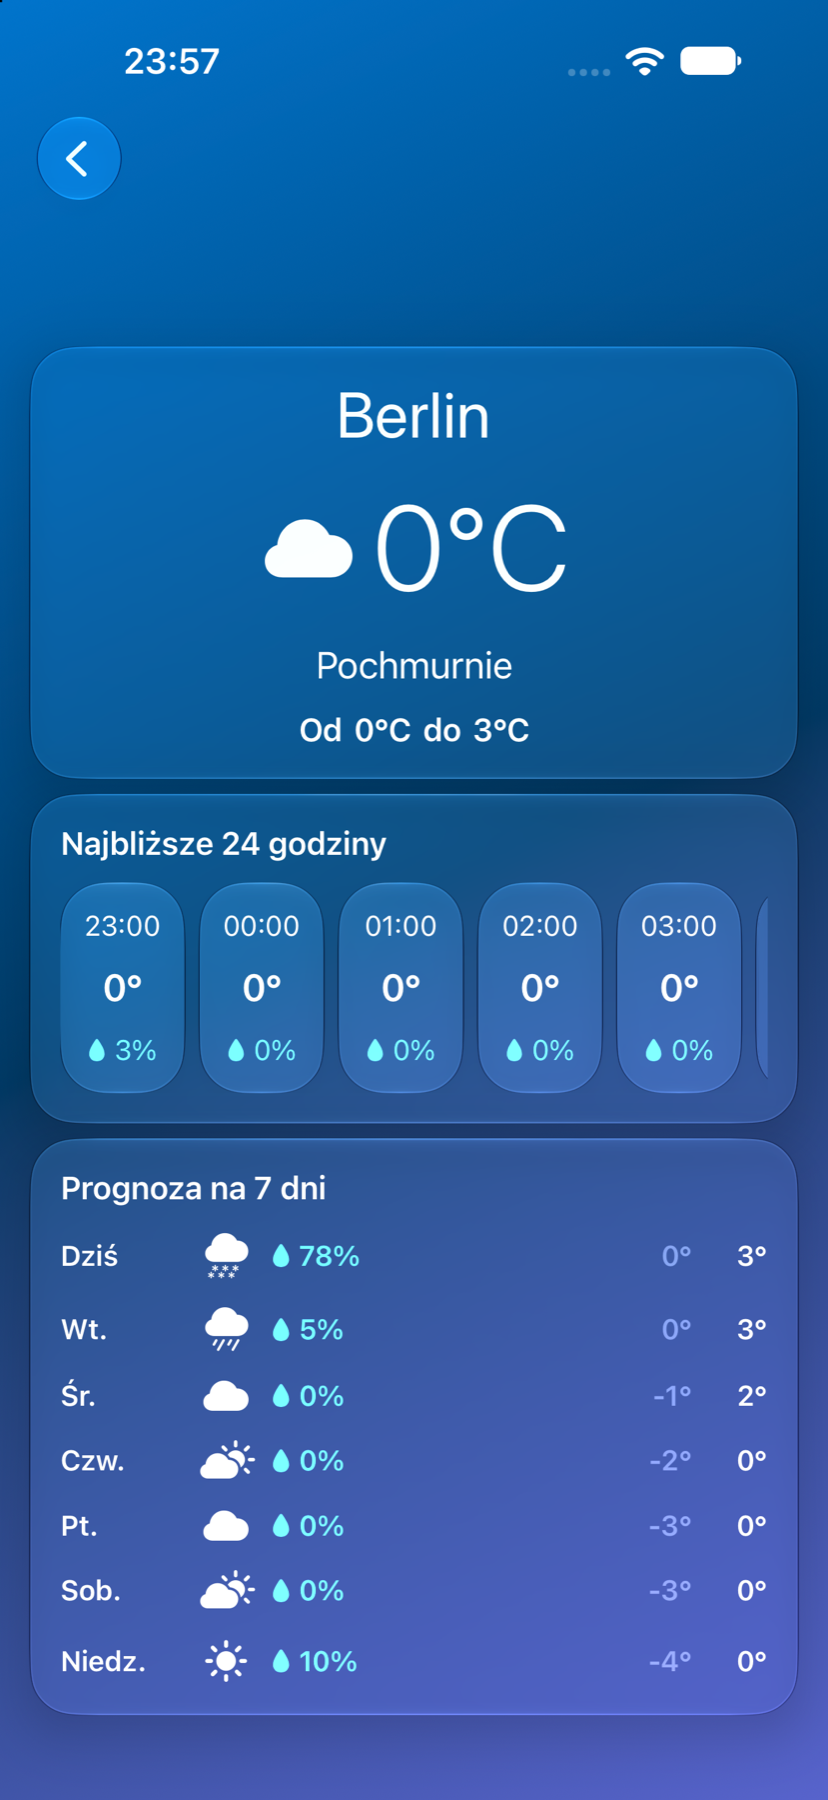
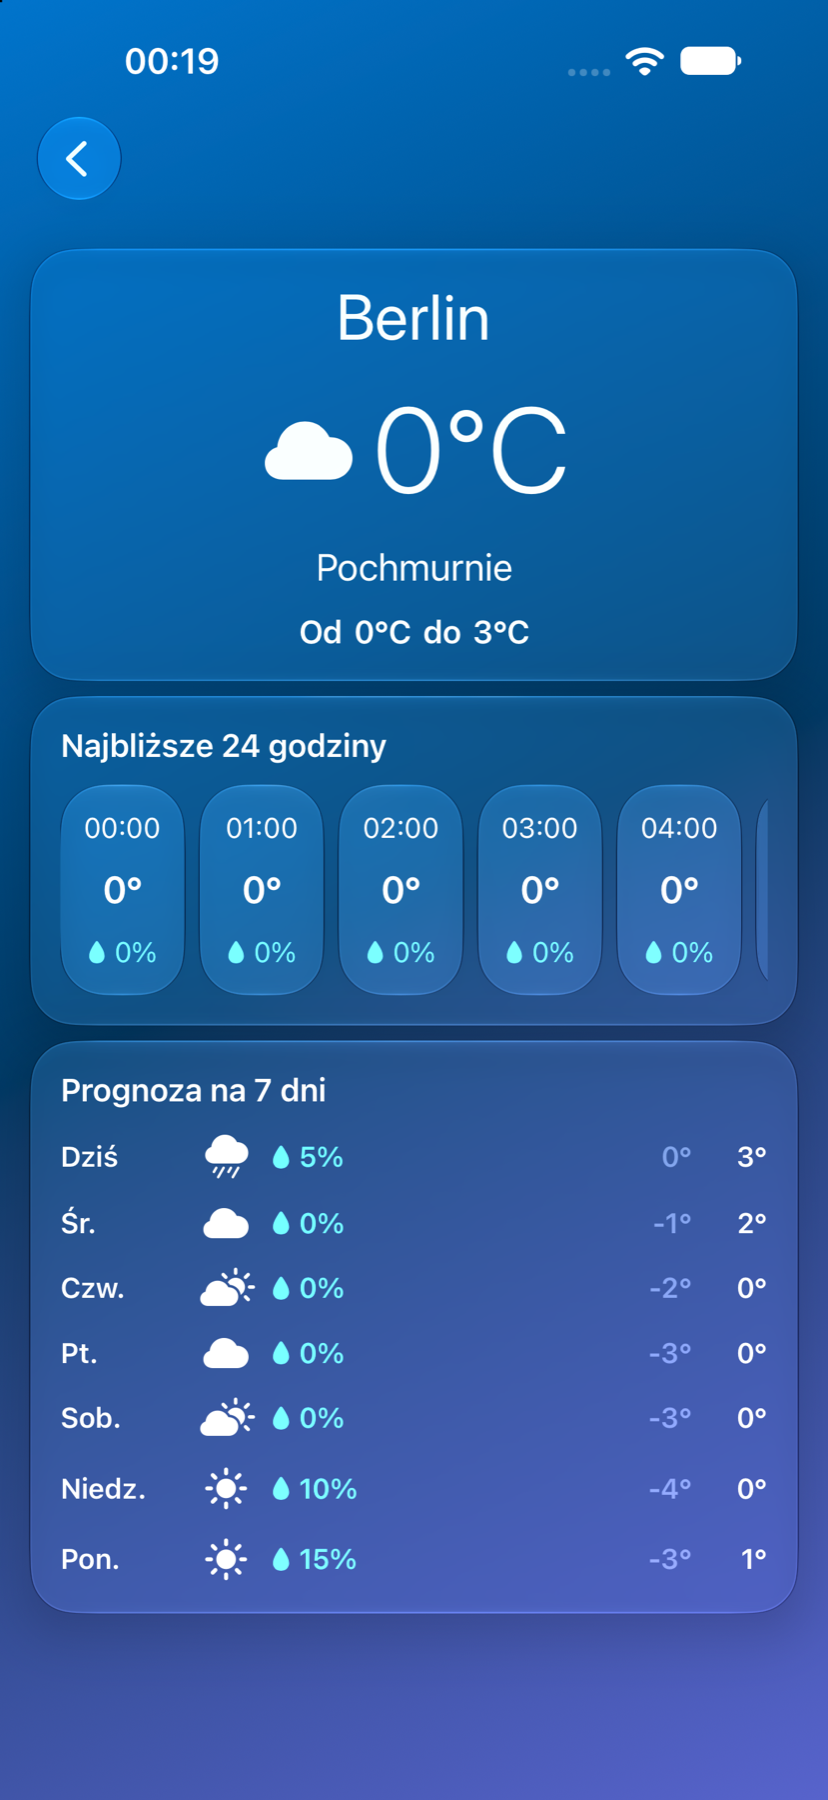
Refactor + update README

Changed region(s): [[0.0302, 0.1244, 0.9662, 0.9333], [0.151, 0.0311, 0.2717, 0.0622]]

diff --git a/Weatherly/Features/Details/DetailsView.swift b/Weatherly/Features/Details/DetailsView.swift
@@ -12,6 +12,12 @@ import SwiftUI
 @MainActor
 struct DetailsView: View {
     
+    // MARK: - Constants
+    
+    private enum Constants {
+        static let hourlyCardSize: CGSize = .init(width: 66.0, height: 112.0)
+    }
+    
     // MARK: - Properties
     
     /// The router used to dismiss the modal details screen.
@@ -34,7 +40,7 @@ struct DetailsView: View {
                 }
             case .downloaded(let weather):
                 ScrollView {
-                    VStack {
+                    VStack(spacing: AppConfig.Spacing.spacing_1) {
                         currentWeather(weather)
                         hourlyWeather(weather)
                         dailyWeather(weather)
@@ -95,16 +101,16 @@ struct DetailsView: View {
 extension DetailsView {
     /// Shows the current temperature, condition, and daily temperature range.
     private func currentWeather(_ weather: Weather) -> some View {
-        VStack(spacing: 12.0) {
+        VStack(spacing: AppConfig.Spacing.spacing_1) {
             Text(viewModel.city.name)
                 .lineLimit(1)
                 .font(.largeTitle)
             
             HStack {
                 Image(systemName: weather.current.condition.systemImage)
-                    .font(.system(size: 40, weight: .regular))
+                    .font(.system(size: AppConfig.Size.medium, weight: .regular))
                 Text("\(Int(weather.current.temperature))°C")
-                    .font(.system(size: 64, weight: .light))
+                    .font(.system(size: AppConfig.Size.large, weight: .light))
             }
             
             Text(weather.current.condition.localizedDescription)
@@ -113,7 +119,7 @@ extension DetailsView {
             if let today = weather.daily.first,
                let minTemperature = today.minimumTemperature,
                let maxTemperature = today.maximumTemperature {
-                HStack(spacing: 6.0) {
+                HStack(spacing: AppConfig.Spacing.spacing_05) {
                     Text("Favorites.temperature.from")
                     Text("\(Int(minTemperature))°C")
                     Text("Favorites.temperature.to")
@@ -137,7 +143,7 @@ extension DetailsView {
             ScrollView(.horizontal) {
                 HStack {
                     ForEach(weather.hourly, id: \.time) { hour in
-                        VStack(spacing: 12) {
+                        VStack(spacing: AppConfig.Spacing.spacing_1) {
                             Text(hour.time.hourLabel)
                                 .font(.subheadline)
                             
@@ -147,7 +153,7 @@ extension DetailsView {
                                     .fontWeight(.semibold)
                             }
                             if let probability = hour.precipitationProbability {
-                                HStack(spacing: 4.0) {
+                                HStack(spacing: AppConfig.Spacing.spacing_05) {
                                     Image(systemName: "drop.fill")
                                         .font(.caption)
                                     Text("\(Int(probability))%")
@@ -156,7 +162,10 @@ extension DetailsView {
                                 .foregroundStyle(.cyan)
                             }
                         }
-                        .frame(width: 66, height: 112)
+                        .frame(
+                            width: Constants.hourlyCardSize.width,
+                            height: Constants.hourlyCardSize.height
+                        )
                         .liquidBackgroundIdNeeded()
                     }
                 }
@@ -170,23 +179,23 @@ extension DetailsView {
     
     /// Shows the daily forecast as a vertical list.
     private func dailyWeather(_ weather: Weather) -> some View {
-        VStack(alignment: .leading, spacing: 12.0) {
+        VStack(alignment: .leading, spacing: AppConfig.Spacing.spacing_1) {
             Text("Details.daily.title")
                 .font(.headline)
             
-            VStack(spacing: 12.0) {
+            VStack(spacing: AppConfig.Spacing.spacing_1) {
                 ForEach(weather.daily, id: \.time) { day in
                     HStack {
                         Text(day.time.dateLabel(timezone: weather.timezone).capitalized)
                             .lineLimit(1)
-                            .frame(width: 64.0, alignment: .leading)
+                            .frame(width: AppConfig.Size.large, alignment: .leading)
                         
                         Image(systemName: day.condition.systemImage)
                             .font(.title3)
-                            .frame(width: 32.0)
+                            .frame(width: AppConfig.Size.small)
                         
                         if let probability = day.maximumPrecipitationProbability {
-                            HStack(spacing: 4.0) {
+                            HStack(spacing: AppConfig.Spacing.spacing_05) {
                                 Image(systemName: "drop.fill")
                                     .font(.caption)
                                 Text("\(Int(probability))%")
@@ -199,11 +208,11 @@ extension DetailsView {
                         if let minTemperature = day.minimumTemperature {
                             Text("\(Int(minTemperature))°")
                                 .foregroundStyle(.secondary)
-                                .frame(width: 32.0, alignment: .trailing)
+                                .frame(width: AppConfig.Size.small, alignment: .trailing)
                         }
                         if let maxTemperature = day.maximumTemperature {
                             Text("\(Int(maxTemperature))°")
-                                .frame(width: 32.0, alignment: .trailing)
+                                .frame(width: AppConfig.Size.small, alignment: .trailing)
                         }
                     }
                     .font(.subheadline)

diff --git a/Weatherly/Features/Favorites/FavoritesRowView.swift b/Weatherly/Features/Favorites/FavoritesRowView.swift
@@ -26,7 +26,7 @@ struct FavoritesRowView: View {
         Button {
             onTap()
         } label: {
-            VStack(alignment: .leading, spacing: 16.0) {
+            VStack(alignment: .leading, spacing: AppConfig.Spacing.spacing_1) {
                 cityAndTemperature
                 conditionAndTemperature
             }
@@ -66,7 +66,7 @@ struct FavoritesRowView: View {
             
             if let weather = city.weather {
                 Text("\(Int(weather.current.temperature))°C")
-                    .font(.system(size: 48.0, weight: .light))
+                    .font(.system(size: AppConfig.Size.medium, weight: .light))
                     .frame(alignment: .trailing)
             }
         }
@@ -88,7 +88,7 @@ struct FavoritesRowView: View {
             if let today = city.weather?.daily.first,
                let minTemperature = today.minimumTemperature,
                let maxTemperature = today.maximumTemperature {
-                HStack(spacing: 6.0) {
+                HStack(spacing: AppConfig.Spacing.spacing_05) {
                     Text("Favorites.temperature.from")
                     Text("\(Int(minTemperature))°C")
                     Text("Favorites.temperature.to")

diff --git a/Weatherly/App/AppConfig.swift b/Weatherly/App/AppConfig.swift
@@ -19,4 +19,26 @@ enum AppConfig {
         /// The base URL for Open-Meteo's Forecast API.
         static let forecastBase = "https://api.open-meteo.com/v1"
     }
+    
+    // MARK: - Spacing
+    
+    /// Standard spacing values used between elements in the interface.
+    enum Spacing {
+        /// A compact spacing value for closely related elements.
+        static let spacing_05: CGFloat = 6.0
+        /// A standard spacing value for related groups of elements.
+        static let spacing_1: CGFloat = 12.0
+    }
+    
+    // MARK: - Size
+    
+    /// Standard dimensions used to size interface elements.
+    enum Size {
+        /// A small size for compact controls and labels.
+        static let small: CGFloat = 32.0
+        /// A medium size for prominent symbols and values.
+        static let medium: CGFloat = 48.0
+        /// A large size for primary values and visual elements.
+        static let large: CGFloat = 64.0
+    }
 }

diff --git a/Weatherly/Features/Favorites/FavoritesView.swift b/Weatherly/Features/Favorites/FavoritesView.swift
@@ -81,6 +81,7 @@ struct FavoritesView: View {
                 .listStyle(.plain)
                 .scrollIndicators(.hidden)
                 .scrollContentBackground(.hidden)
+                .navigationBarTitleDisplayMode(.inline)
                 .background(background)
                 .searchable(
                     text: searchTextBinding,

diff --git a/README.md b/README.md
@@ -6,9 +6,9 @@ Weatherly is an iOS weather app built with SwiftUI. It lets you search for citie
 
 <p align="center">
   <img src="Screenshots/favorites-portrait.png" width="160" alt="Favorites screen in portrait orientation" />
-  <img src="Screenshots/details-modal-paris-portrait-1.png" width="160" alt="Paris weather details presented modally in portrait orientation" />
-  <img src="Screenshots/details-modal-paris-portrait-2.png" width="160" alt="Paris weather details with hourly and seven-day forecasts" />
   <img src="Screenshots/details-push-berlin-portrait.png" width="160" alt="Berlin weather details opened from favorites in portrait orientation" />
+  <img src="Screenshots/details-modal-paris-portrait.png" width="160" alt="Paris weather details presented modally with hourly and seven-day forecasts" />
+  <img src="Screenshots/search-recent-portrait.png" width="160" alt="Recent city searches in portrait orientation" />
 </p>
 
 <p align="center">
